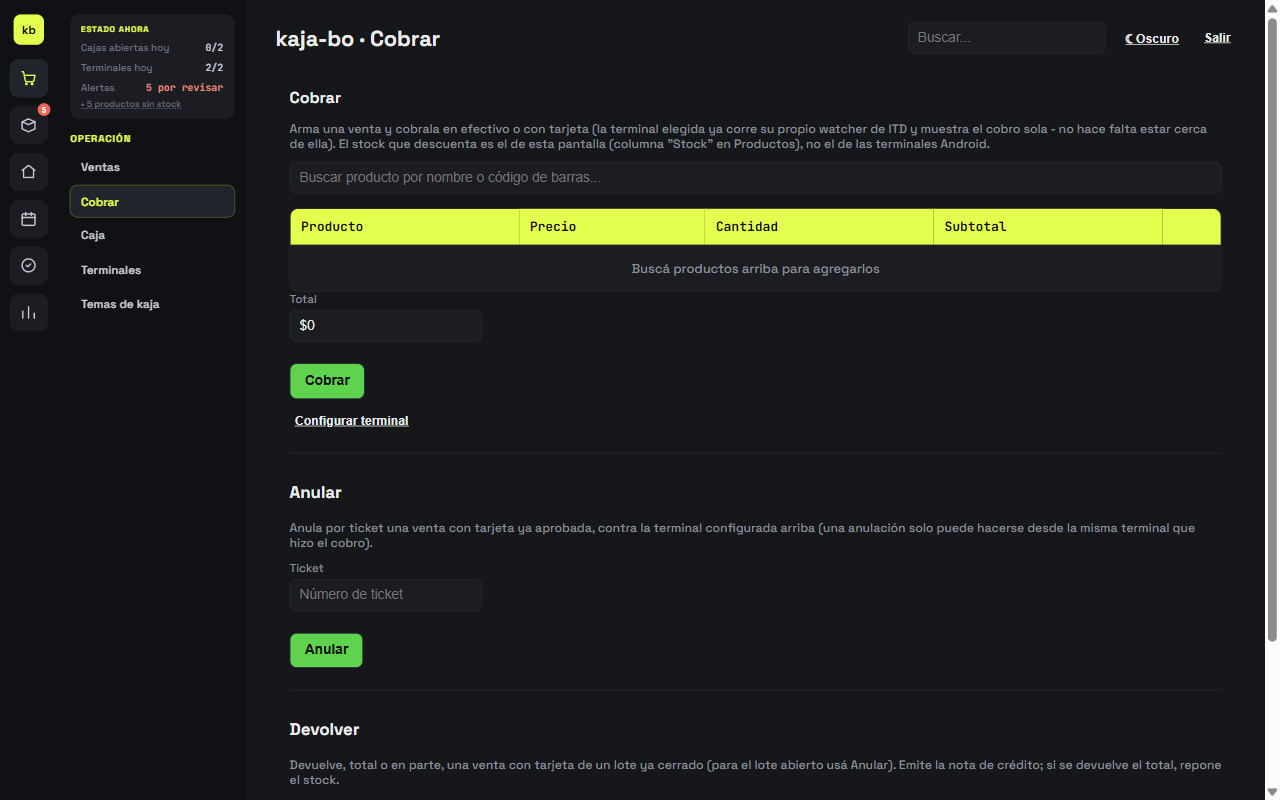
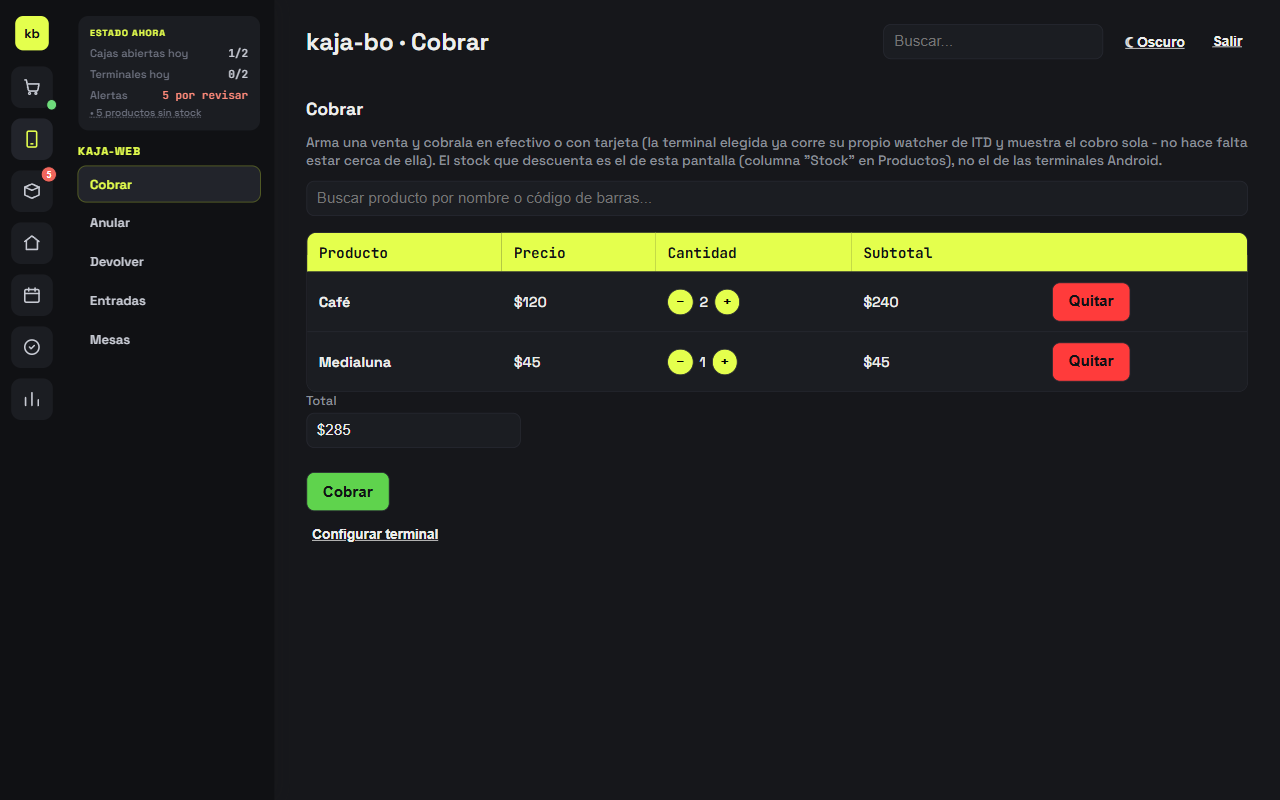
Manuales: kaja-web (vender desde kaja-bo: Cobrar, Anular, Devolver, Entradas y Mesas) y uso desde el celular

diff --git a/manuales/manual-administrador.html b/manuales/manual-administrador.html
@@ -36,6 +36,7 @@ blockquote { margin: 16px 0; padding: 8px 16px; border-left: 4px solid var(--ace
 <ul>
 <li><a href="#ingresar">Ingresar</a></li>
 <li><a href="#c%C3%B3mo-est%C3%A1-organizada-la-pantalla">Cómo está organizada la pantalla</a></li>
+<li><a href="#usar-kaja-bo-desde-el-celular">Usar kaja-bo desde el celular</a></li>
 <li><a href="#puesta-en-marcha">Puesta en marcha</a></li>
 <li><a href="#sucursales">Sucursales</a></li>
 <li><a href="#productos">Productos</a></li>
@@ -50,7 +51,7 @@ blockquote { margin: 16px 0; padding: 8px 16px; border-left: 4px solid var(--ace
 <li><a href="#facturaci%C3%B3n-electr%C3%B3nica-ucfe">Facturación electrónica (UCFE)</a></li>
 <li><a href="#ventas">Ventas</a></li>
 <li><a href="#caja">Caja</a></li>
-<li><a href="#cobrar-desde-kaja-bo">Cobrar desde kaja-bo</a></li>
+<li><a href="#kaja-web-vender-desde-kaja-bo">kaja-web: vender desde kaja-bo</a></li>
 <li><a href="#conciliaci%C3%B3n">Conciliación</a></li>
 <li><a href="#reportes">Reportes</a></li>
 </ul>
@@ -61,12 +62,16 @@ blockquote { margin: 16px 0; padding: 8px 16px; border-left: 4px solid var(--ace
 <h2 id="cómo-está-organizada-la-pantalla">Cómo está organizada la pantalla</h2>
 <p><img src="img/bo-inicio-admin.png" alt="Pantalla inicial del administrador"></p>
 <ul>
-<li><strong>Barra de íconos (izquierda)</strong>: agrupa las secciones. De arriba hacia abajo: <strong>Operación</strong> (ventas, cobrar, caja, terminales, mesas, temas, módulos), <strong>Catálogo</strong> (productos, promociones, stock), <strong>Gente</strong> (sucursales, cajeros), <strong>Eventos</strong>, <strong>Fiscal</strong> (UCFE, conciliación) y <strong>Reportes</strong>. Al tocar un ícono aparecen sus pestañas al lado.</li>
+<li><strong>Barra de íconos (izquierda)</strong>: agrupa las secciones. De arriba hacia abajo: <strong>Operación</strong> (ventas, caja, terminales, mesas, temas, módulos), <strong><a href="#kaja-web-vender-desde-kaja-bo">kaja-web</a></strong> (cobrar, anular, devolver, entradas, mesas), <strong>Catálogo</strong> (productos, promociones, stock), <strong>Gente</strong> (sucursales, cajeros), <strong>Eventos</strong>, <strong>Fiscal</strong> (UCFE, conciliación) y <strong>Reportes</strong>. Al tocar un ícono aparecen sus pestañas al lado.</li>
 <li><strong>Estado ahora</strong>: el recuadro de arriba a la izquierda muestra cuántas cajas están abiertas hoy, cuántas terminales reportaron y las <strong>alertas</strong> pendientes (diferencias de caja sin revisar, cajas sin cerrar de otro día, productos sin stock). Tocá una alerta para ir a resolverla.</li>
 <li><strong>Buscar</strong>: filtra las filas de las tablas de la pestaña que estás viendo (productos, cajeros, terminales, ventas, caja…).</li>
 <li><strong>Oscuro / Claro</strong>: cambia los colores de la página.</li>
 <li><strong>Salir</strong>: cierra la sesión.</li>
 </ul>
+<h2 id="usar-kaja-bo-desde-el-celular">Usar kaja-bo desde el celular</h2>
+<p>kaja-bo también se usa desde el navegador del celular. En una pantalla chica la barra de íconos se esconde: el botón <strong>☰</strong> (arriba a la izquierda) abre el menú con todas las secciones agrupadas, como el menú de la terminal, y se cierra solo al elegir una.</p>
+<p><img src="img/bo-movil-menu.png" alt="Menú de kaja-bo en el celular"></p>
+<p>La pantalla de <strong>Cobrar</strong> se ve igual que la venta de la terminal (ver <a href="#cobrar">kaja-web</a>), y los gráficos de los reportes se ajustan al ancho del teléfono.</p>
 <h2 id="puesta-en-marcha">Puesta en marcha</h2>
 <p>Para un comercio nuevo, cargá todo en este orden:</p>
 <ol>
@@ -181,15 +186,15 @@ blockquote { margin: 16px 0; padding: 8px 16px; border-left: 4px solid var(--ace
 <p>La tabla muestra cada mesa con su <strong>Cuenta</strong>: <strong>Libre</strong>, o el total consumido y cuánto se pagó hasta ahora. Se actualiza sola. <strong>Dar de baja</strong> saca la mesa de las terminales (si tiene una cuenta abierta, sigue hasta que se cierre).</p>
 <p>Cada terminal ve las mesas del local al que está asignada en <a href="#terminales">Terminales</a>: una terminal sin local no ve ninguna.</p>
 <p>Cómo se usan en la terminal (abrir la mesa, cargar productos, cobrar por partes con propina y cerrar): ver el <a href="manual-cajero.html#mesas">manual del cajero</a>. Al cerrar la mesa sale <strong>un solo comprobante</strong> con todos los productos y se descuenta el stock del local. Las propinas de cada mozo se ven en el reporte <a href="#reportes">Propinas</a>.</p>
+<p>Las mesas también se pueden atender desde la computadora o el celular, en <strong><a href="#mesas-desde-kaja-web">kaja-web → Mesas</a></strong>.</p>
 <h2 id="eventos-y-entradas">Eventos y entradas</h2>
 <p><strong>Eventos.</strong> Sirve para vender entradas (con QR) y controlarlas en la puerta con la terminal.</p>
 <h3 id="crear-un-evento">Crear un evento</h3>
 <p>Completá <strong>Nombre</strong>, <strong>Fecha</strong>, <strong>Precio</strong> y cantidad de <strong>Entradas</strong>, y tocá <strong>Crear</strong>.</p>
 <p><img src="img/bo-evento-nuevo.png" alt="Nuevo evento"></p>
-<h3 id="vender-entradas-desde-kaja-bo">Vender entradas desde kaja-bo</h3>
-<p>En <strong>Vender entradas</strong> elegí el <strong>Evento</strong>, la <strong>Cantidad</strong>, el <strong>Mail del comprador</strong> (le llegan las entradas con su QR), opcionalmente el <strong>Nombre</strong>, la forma de pago y tocá <strong>Vender</strong>. Con tarjeta, el cobro se hace en la terminal configurada en la pestaña Cobrar.</p>
-<p><img src="img/bo-eventos.png" alt="Eventos y venta de entradas"></p>
-<p>Las entradas también se venden y se controlan desde la terminal (<a href="manual-cajero.html#eventos">manual del cajero</a>).</p>
+<p>La tabla <strong>Eventos</strong> muestra cada evento con su fecha, precio y cuántas entradas se vendieron.</p>
+<p><img src="img/bo-eventos.png" alt="Eventos"></p>
+<p>Las entradas se venden desde <strong><a href="#entradas">kaja-web → Entradas</a></strong>, y también se venden y se controlan desde la terminal (<a href="manual-cajero.html#eventos">manual del cajero</a>).</p>
 <h2 id="facturación-electrónica-ucfe">Facturación electrónica (UCFE)</h2>
 <p><strong>Fiscal → UCFE.</strong> Acá van los datos que Uruware asigna al dar de alta el comercio en UCFE, y los datos del emisor que salen en cada comprobante.</p>
 <p><img src="img/bo-ucfe.png" alt="Configuración de UCFE"></p>
@@ -210,10 +215,22 @@ blockquote { margin: 16px 0; padding: 8px 16px; border-left: 4px solid var(--ace
 <li>Una caja abierta de días anteriores aparece con el aviso &quot;Abierta hace N días&quot;.</li>
 <li>Filtrá por <strong>Terminal</strong> o <strong>Sucursal</strong>, o marcá <strong>Solo diferencias sin revisar</strong>.</li>
 </ul>
-<h2 id="cobrar-desde-kaja-bo">Cobrar desde kaja-bo</h2>
-<p><strong>Operación → Cobrar.</strong> Permite armar una venta desde la computadora y cobrarla en efectivo o con tarjeta usando una terminal, y también <strong>Anular</strong> (ventas con tarjeta del lote abierto) y <strong>Devolver</strong> (ventas con tarjeta de un lote ya cerrado, total o parcial, con nota de crédito).</p>
-<p><img src="img/bo-cobrar.png" alt="Cobrar, anular y devolver desde kaja-bo"></p>
-<p>Antes de usarla por primera vez tocá <strong>Configurar terminal</strong> y elegí con qué <strong>Terminal</strong> se cobra con tarjeta (la terminal muestra el cobro sola, no hace falta estar al lado). El stock que descuenta esta pantalla es el de la columna Stock de Productos, no el de los locales.</p>
+<h2 id="kaja-web-vender-desde-kaja-bo">kaja-web: vender desde kaja-bo</h2>
+<p><strong>kaja-web</strong> son las pantallas de la terminal, pero en kaja-bo: <strong>Cobrar</strong>, <strong>Anular</strong>, <strong>Devolver</strong>, <strong>Entradas</strong> (con el módulo Eventos) y <strong>Mesas</strong> (con el módulo Mesas). Sirven para vender desde una computadora o un celular, contra una terminal de cobro del comercio.</p>
+<ul>
+<li><strong>Quién las usa</strong>: el administrador, y también los <strong>cajeros</strong>: entrando a kaja-bo con su correo y la misma contraseña de la terminal, un cajero ve <strong>solo</strong> kaja-web (nada de reportes, productos ni configuración).</li>
+<li><strong>La terminal elegida</strong>: todas cobran con tarjeta en la terminal que se elige en <strong>Cobrar → Configurar terminal</strong>. La terminal muestra el cobro sola, no hace falta estar al lado. Anular, Devolver, Entradas y Mesas muestran arriba cuál es.</li>
+<li><strong>Caja abierta</strong>: para cobrar, esa terminal tiene que tener la caja abierta.</li>
+</ul>
+<h3 id="cobrar">Cobrar</h3>
+<p><strong>kaja-web → Cobrar.</strong> Buscá los productos por nombre o código de barras y agregalos al carrito; ajustá las cantidades con <strong>−</strong> y <strong>+</strong> o sacalos con <strong>Quitar</strong>. Las promociones se aplican solas. Tocá <strong>Cobrar</strong> y elegí <strong>Efectivo</strong> o <strong>Tarjeta</strong>.</p>
+<p><img src="img/bo-cobrar.png" alt="Cobrar desde kaja-bo"></p>
+<p>Antes de usarla por primera vez tocá <strong>Configurar terminal</strong> y elegí con qué <strong>Terminal</strong> se cobra. El stock que se descuenta es el del local de esa terminal.</p>
+<ul>
+<li><strong>Lector de códigos de barras</strong>: en la computadora funciona un lector de mano (USB o Bluetooth). Al abrir Cobrar el buscador ya queda listo: cada lectura agrega el producto con ese código exacto.</li>
+<li><strong>En el celular</strong>: la pantalla es igual a la venta de la terminal: botón <strong>+</strong> para buscar productos, el <strong>TOTAL</strong> y <strong>Cobrar</strong>, y cada producto con <strong>−</strong>, el tacho y <strong>+</strong>. En Android, con kaja-bo abierto en una dirección <code>https://</code>, aparece también el botón de <strong>escanear con la cámara</strong>.</li>
+</ul>
+<p><img src="img/bo-movil-cobrar.png" alt="Cobrar desde el celular"></p>
 <h3 id="systemid-de-itd-cobros-con-tarjeta">SystemId de ITD (cobros con tarjeta)</h3>
 <p>En ese mismo panel de <strong>Configurar terminal</strong> están los datos de ITD (Fiserv), el procesador de las tarjetas:</p>
 <ul>
@@ -221,6 +238,34 @@ blockquote { margin: 16px 0; padding: 8px 16px; border-left: 4px solid var(--ace
 <li><strong>URL base</strong> y <strong>SystemId</strong>: los asigna Fiserv al comercio.</li>
 </ul>
 <p>Tocá <strong>Guardar</strong>. El SystemId se configura <strong>solo acá</strong>: las terminales lo bajan solas de kaja-bo, el cajero no lo carga.</p>
+<h3 id="anular">Anular</h3>
+<p><strong>kaja-web → Anular.</strong> Anula una venta con tarjeta <strong>del lote abierto</strong> (antes del cierre de Fiserv de las 23 h). Escribí el número de <strong>Ticket</strong> y tocá <strong>Anular</strong>. Se anula contra la terminal elegida en Cobrar, que tiene que ser la misma que hizo el cobro.</p>
+<p><img src="img/bo-anular.png" alt="Anular una venta"></p>
+<h3 id="devolver">Devolver</h3>
+<p><strong>kaja-web → Devolver.</strong> Devuelve, total o en parte, una venta con tarjeta de un <strong>lote ya cerrado</strong> (para el lote abierto usá Anular). Completá el <strong>Ticket</strong>, la <strong>Fecha de la venta</strong> y, si es una devolución parcial, el <strong>Monto</strong> (vacío = el total). Se emite la nota de crédito; si se devuelve el total, se repone el stock.</p>
+<p><img src="img/bo-devolver.png" alt="Devolver una venta"></p>
+<h3 id="entradas">Entradas</h3>
+<p><strong>kaja-web → Entradas.</strong> Elegí el <strong>Evento</strong>, la <strong>Cantidad</strong>, el <strong>Mail del comprador</strong> (le llegan las entradas con su QR), opcionalmente el <strong>Nombre</strong>, la forma de pago y tocá <strong>Vender</strong>. Los eventos se crean en <a href="#eventos-y-entradas">Eventos</a>.</p>
+<p><img src="img/bo-entradas.png" alt="Vender entradas desde kaja-bo"></p>
+<h3 id="mesas-desde-kaja-web">Mesas desde kaja-web</h3>
+<p><strong>kaja-web → Mesas.</strong> Se atienden las mesas del local de la terminal elegida, igual que en la terminal: varios mozos pueden cargar la misma mesa a la vez, desde la web o desde las terminales. Las mesas se crean en <a href="#mesas">Operación → Mesas</a>.</p>
+<p><img src="img/bo-mesas-web.png" alt="Mesas del local"></p>
+<p>Las mesas ocupadas se ven resaltadas, con lo consumido y lo que falta pagar; las libres dicen &quot;Libre&quot;. Tocá una mesa para abrirla:</p>
+<ul>
+<li><strong>Agregar producto</strong>: buscalo por nombre o código de barras (también con el lector de mano). Cada producto suma uno a la cuenta.</li>
+<li><strong>Quitar</strong>: saca un producto, salvo que ya se haya cobrado parte de él.</li>
+<li>La cuenta muestra el <strong>Total</strong>, lo <strong>Pagado</strong>, lo que se está <strong>Cobrando</strong> y lo que <strong>Falta pagar</strong>, con cada pago, su propina y quién lo cobró.</li>
+</ul>
+<p><img src="img/bo-mesas-web-cuenta.png" alt="Cuenta de una mesa"></p>
+<p><strong>Cobrar una parte</strong>: escribí el <strong>Monto</strong> (por defecto, lo que falta), elegí la <strong>Propina</strong> (<strong>Sin</strong>, <strong>10%</strong>, <strong>15%</strong> u <strong>Otra</strong> para escribirla) y tocá <strong>Efectivo</strong> o <strong>Tarjeta</strong>. Con tarjeta se cobra en la terminal elegida, con la propina aparte. Nunca se puede cobrar más de lo que falta, aunque dos personas cobren la misma mesa a la vez.</p>
+<p><img src="img/bo-mesas-web-cobrar.png" alt="Cobrar una parte con propina"></p>
+<p>Si aparece <strong>&quot;ITD no confirmó el cobro. Revisá el pinpad antes de volver a cobrar.&quot;</strong>, mirá en la terminal si el cobro salió antes de repetirlo: esa parte queda &quot;cobrándose&quot; unos minutos.</p>
+<p>Con todo pagado, <strong>Cerrar mesa y emitir CFE</strong> emite <strong>un solo comprobante</strong> con todos los productos, descuenta el stock del local y deja la mesa libre. Una mesa sin productos (abierta por error) se cierra con <strong>Liberar mesa</strong>.</p>
+<h3 id="límites-de-kaja-web">Límites de kaja-web</h3>
+<ul>
+<li><strong>No imprime</strong>: kaja-web emite el comprobante electrónico, pero no imprime ticket.</li>
+<li><strong>Arqueo de la terminal</strong>: el efectivo que se cobra desde kaja-web no entra en el arqueo que hace la terminal al cerrar la caja.</li>
+</ul>
 <h2 id="conciliación">Conciliación</h2>
 <p><strong>Fiscal → Conciliación.</strong> Compara las ventas con tarjeta que tiene kaja-bo contra lo que ITD (el procesador de tarjetas) confirma. Solo informa diferencias: no cambia ninguna venta.</p>
 <p><img src="img/bo-conciliacion.png" alt="Conciliación contra ITD"></p>

diff --git a/manuales/manual-cajero.html b/manuales/manual-cajero.html
@@ -46,6 +46,7 @@ blockquote { margin: 16px 0; padding: 8px 16px; border-left: 4px solid var(--ace
 <li><a href="#stock">Stock</a></li>
 <li><a href="#eventos">Eventos</a></li>
 <li><a href="#configuraci%C3%B3n">Configuración</a></li>
+<li><a href="#vender-desde-la-computadora-o-el-celular-kaja-web">Vender desde la computadora o el celular (kaja-web)</a></li>
 </ul>
 <h2 id="configurar-la-terminal">Configurar la terminal</h2>
 <p>Una terminal nueva hay que conectarla con kaja-bo <strong>escaneando el QR</strong> que el superadmin entregó al crear el comercio. La dirección de kaja-bo y la clave del comercio <strong>no se escriben a mano</strong>: solo se cargan con el QR.</p>
@@ -264,6 +265,16 @@ blockquote { margin: 16px 0; padding: 8px 16px; border-left: 4px solid var(--ace
 <li><strong>Cajero</strong> y <strong>Cerrar sesión</strong>: muestra quién está ingresado y permite salir.</li>
 <li><strong>Guardar</strong>: guarda los cambios. Si salís con cambios sin guardar, la app te pregunta qué hacer.</li>
 </ul>
+<h2 id="vender-desde-la-computadora-o-el-celular-kaja-web">Vender desde la computadora o el celular (kaja-web)</h2>
+<p>Además de la terminal, podés vender desde <strong>kaja-bo</strong>, la página web del comercio, en una computadora o en el navegador del celular. Entrá con tu <strong>correo</strong> y la <strong>misma contraseña</strong> de la terminal: vas a ver solo <strong>kaja-web</strong>, con <strong>Cobrar</strong>, <strong>Anular</strong>, <strong>Devolver</strong>, <strong>Entradas</strong> y <strong>Mesas</strong>.</p>
+<p><img src="img/bo-movil-cobrar.png" alt="Cobrar desde el celular"></p>
+<ul>
+<li>Funcionan igual que en la terminal; en el celular, Cobrar se ve como la pantalla de venta.</li>
+<li>Los cobros con tarjeta salen en la terminal elegida en <strong>Cobrar → Configurar terminal</strong>, que tiene que tener la <strong>caja abierta</strong>.</li>
+<li>En la computadora podés usar un <strong>lector de códigos de barras</strong> de mano; en Android, el botón de escanear con la cámara.</li>
+<li>kaja-web no imprime ticket, y el efectivo que cobres ahí no entra en el arqueo de la terminal.</li>
+</ul>
+<p>El detalle de cada pantalla está en el <a href="manual-administrador.html#kaja-web-vender-desde-kaja-bo">manual del administrador</a>.</p>
 
 
 </main>
